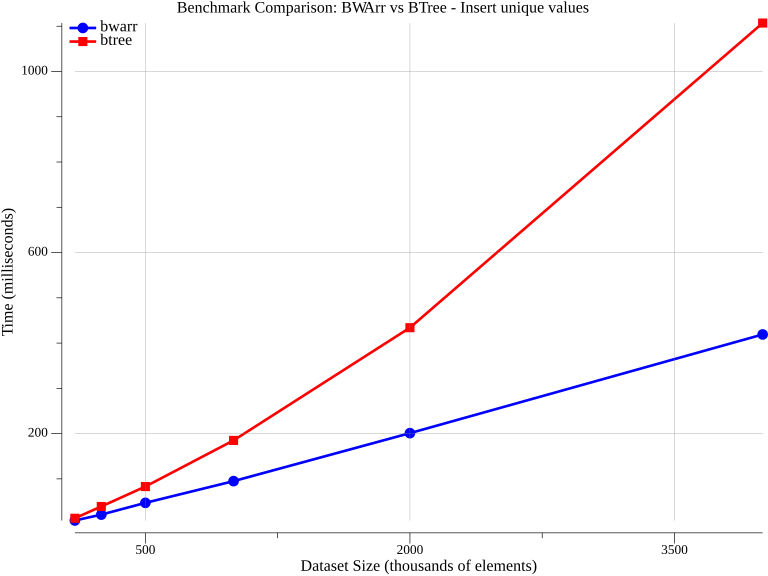
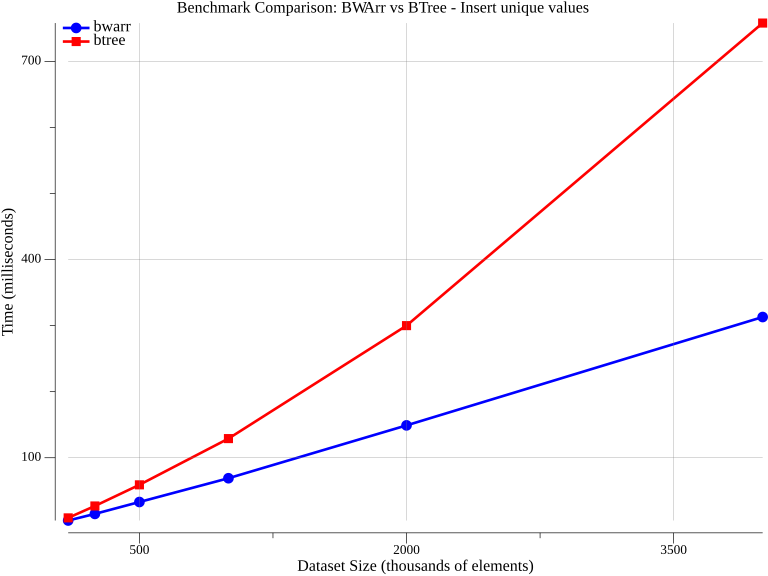
Update to dronnix/bwarr v1.2.0

diff --git a/benchmark/benchmark.go b/benchmark/benchmark.go
@@ -17,6 +17,18 @@ const (
 	BTreeDegree = 32
 )
 
+// newBWArrFromSlice builds a BWArr pre-populated with the given values.
+// It replaces bwarr.NewFromSlice, which was removed in bwarr v1.2.0.
+func newBWArrFromSlice(values []int64) *bwarr.BWArr[int64] {
+	bwa := bwarr.New(func(a, b int64) int {
+		return int(a - b)
+	}, len(values))
+	for _, v := range values {
+		bwa.Insert(v)
+	}
+	return bwa
+}
+
 // Comparison consists of multiple benchmark runs comparing two implementations.
 type Comparison struct {
 	Name           string
@@ -137,9 +149,7 @@ func BenchBTreeInsert(b *testing.B, params Params) {
 func BenchBWArrGet(b *testing.B, params Params) {
 	b.Helper()
 
-	bwa := bwarr.NewFromSlice(func(a, b int64) int {
-		return int(a - b)
-	}, params.InitValues)
+	bwa := newBWArrFromSlice(params.InitValues)
 
 	toFind := params.InitValues[:params.ElementsToApply] // TODO: use a better selection strategy (shuffle?)
 
@@ -186,9 +196,7 @@ func BenchBTreeGet(b *testing.B, params Params) {
 func BenchBWArrOrderedIterate(b *testing.B, params Params) {
 	b.Helper()
 
-	bwa := bwarr.NewFromSlice(func(a, b int64) int {
-		return int(a - b)
-	}, params.InitValues)
+	bwa := newBWArrFromSlice(params.InitValues)
 
 	// Reset timer to exclude any setup time
 	b.ResetTimer()
@@ -229,9 +237,7 @@ func BenchBTreeOrderedIterate(b *testing.B, params Params) {
 func BenchBWArrUnorderedIterate(b *testing.B, params Params) {
 	b.Helper()
 
-	bwa := bwarr.NewFromSlice(func(a, b int64) int {
-		return int(a - b)
-	}, params.InitValues)
+	bwa := newBWArrFromSlice(params.InitValues)
 
 	// Reset timer to exclude any setup time
 	b.ResetTimer()
@@ -250,11 +256,6 @@ func BenchBWArrUnorderedIterate(b *testing.B, params Params) {
 func BenchBTreeDelete(b *testing.B, params Params) {
 	b.Helper()
 
-	tree := btree.NewOrderedG[int64](BTreeDegree)
-	for _, v := range params.InitValues {
-		tree.ReplaceOrInsert(v)
-	}
-
 	toDel := params.InitValues[:params.ElementsToApply] // TODO: use a better selection strategy (shuffle?)
 
 	// Reset timer to exclude any setup time
@@ -262,6 +263,16 @@ func BenchBTreeDelete(b *testing.B, params Params) {
 
 	// Run b.N iterations (controlled by testing.B framework)
 	for range b.N {
+		// Stop timer during tree population (setup, not measured).
+		// A fresh tree per iteration so every iteration deletes real elements.
+		b.StopTimer()
+		tree := btree.NewOrderedG[int64](BTreeDegree)
+		for _, v := range params.InitValues {
+			tree.ReplaceOrInsert(v)
+		}
+		b.StartTimer()
+
+		// Measured operation: delete all values
 		for _, v := range toDel {
 			tree.Delete(v)
 		}
@@ -272,10 +283,6 @@ func BenchBTreeDelete(b *testing.B, params Params) {
 func BenchBWArrDelete(b *testing.B, params Params) {
 	b.Helper()
 
-	bwa := bwarr.NewFromSlice(func(a, b int64) int {
-		return int(a - b)
-	}, params.InitValues)
-
 	toDel := params.InitValues[:params.ElementsToApply] // TODO: use a better selection strategy (shuffle?)
 
 	// Reset timer to exclude any setup time
@@ -283,6 +290,13 @@ func BenchBWArrDelete(b *testing.B, params Params) {
 
 	// Run b.N iterations (controlled by testing.B framework)
 	for range b.N {
+		// Stop timer during bwa population (setup, not measured).
+		// A fresh bwa per iteration so every iteration deletes real elements.
+		b.StopTimer()
+		bwa := newBWArrFromSlice(params.InitValues)
+		b.StartTimer()
+
+		// Measured operation: delete all values
 		for _, v := range toDel {
 			bwa.Delete(v)
 		}
